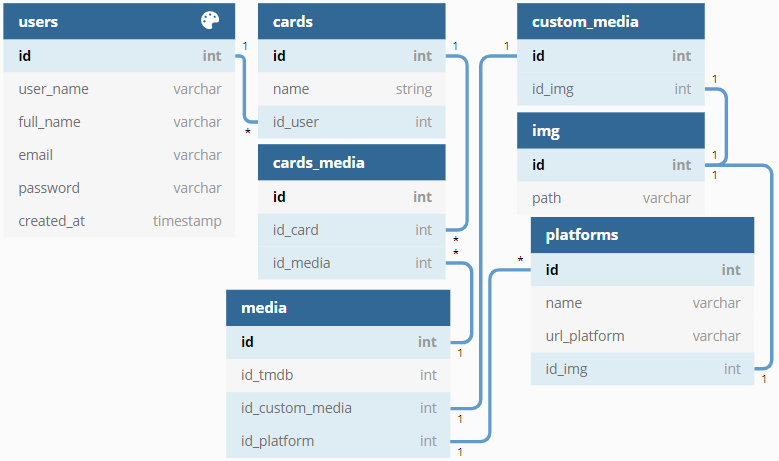
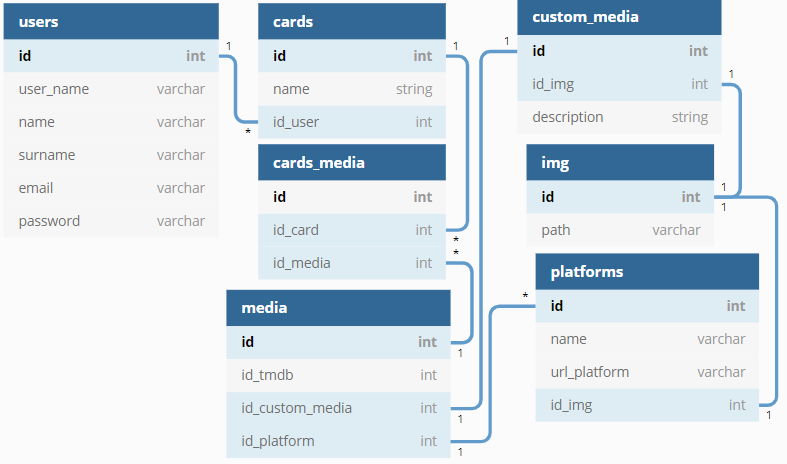
UPDATE: database doc and database diagram

diff --git a/documentation/database.md b/documentation/database.md
@@ -9,9 +9,19 @@
 
 ## Commands
 
-- Project creation.
+- Models generation
 
 ```
-express t3f_api --no-view
-npm install
+sequelize model:generate --name users --attributes user_name:string,name:string,surname:string,email:string,password:string
+sequelize model:generate --name cards --attributes name:string,id_user:integer
+sequelize model:generate --name cards_media --attributes id_card:integer,id_media:integer
+sequelize model:generate --name media --attributes id_tmdb:integer,id_custom_media:integer,id_platform:integer
+sequelize model:generate --name custom_media --attributes id_img:integer,description:string
+sequelize model:generate --name platforms --attributes name:string,url_platform:string,id_img:integer
+sequelize model:generate --name img --attributes path:string
+```
+
+- Migration
+```
+sequelize db:migrate
 ```
